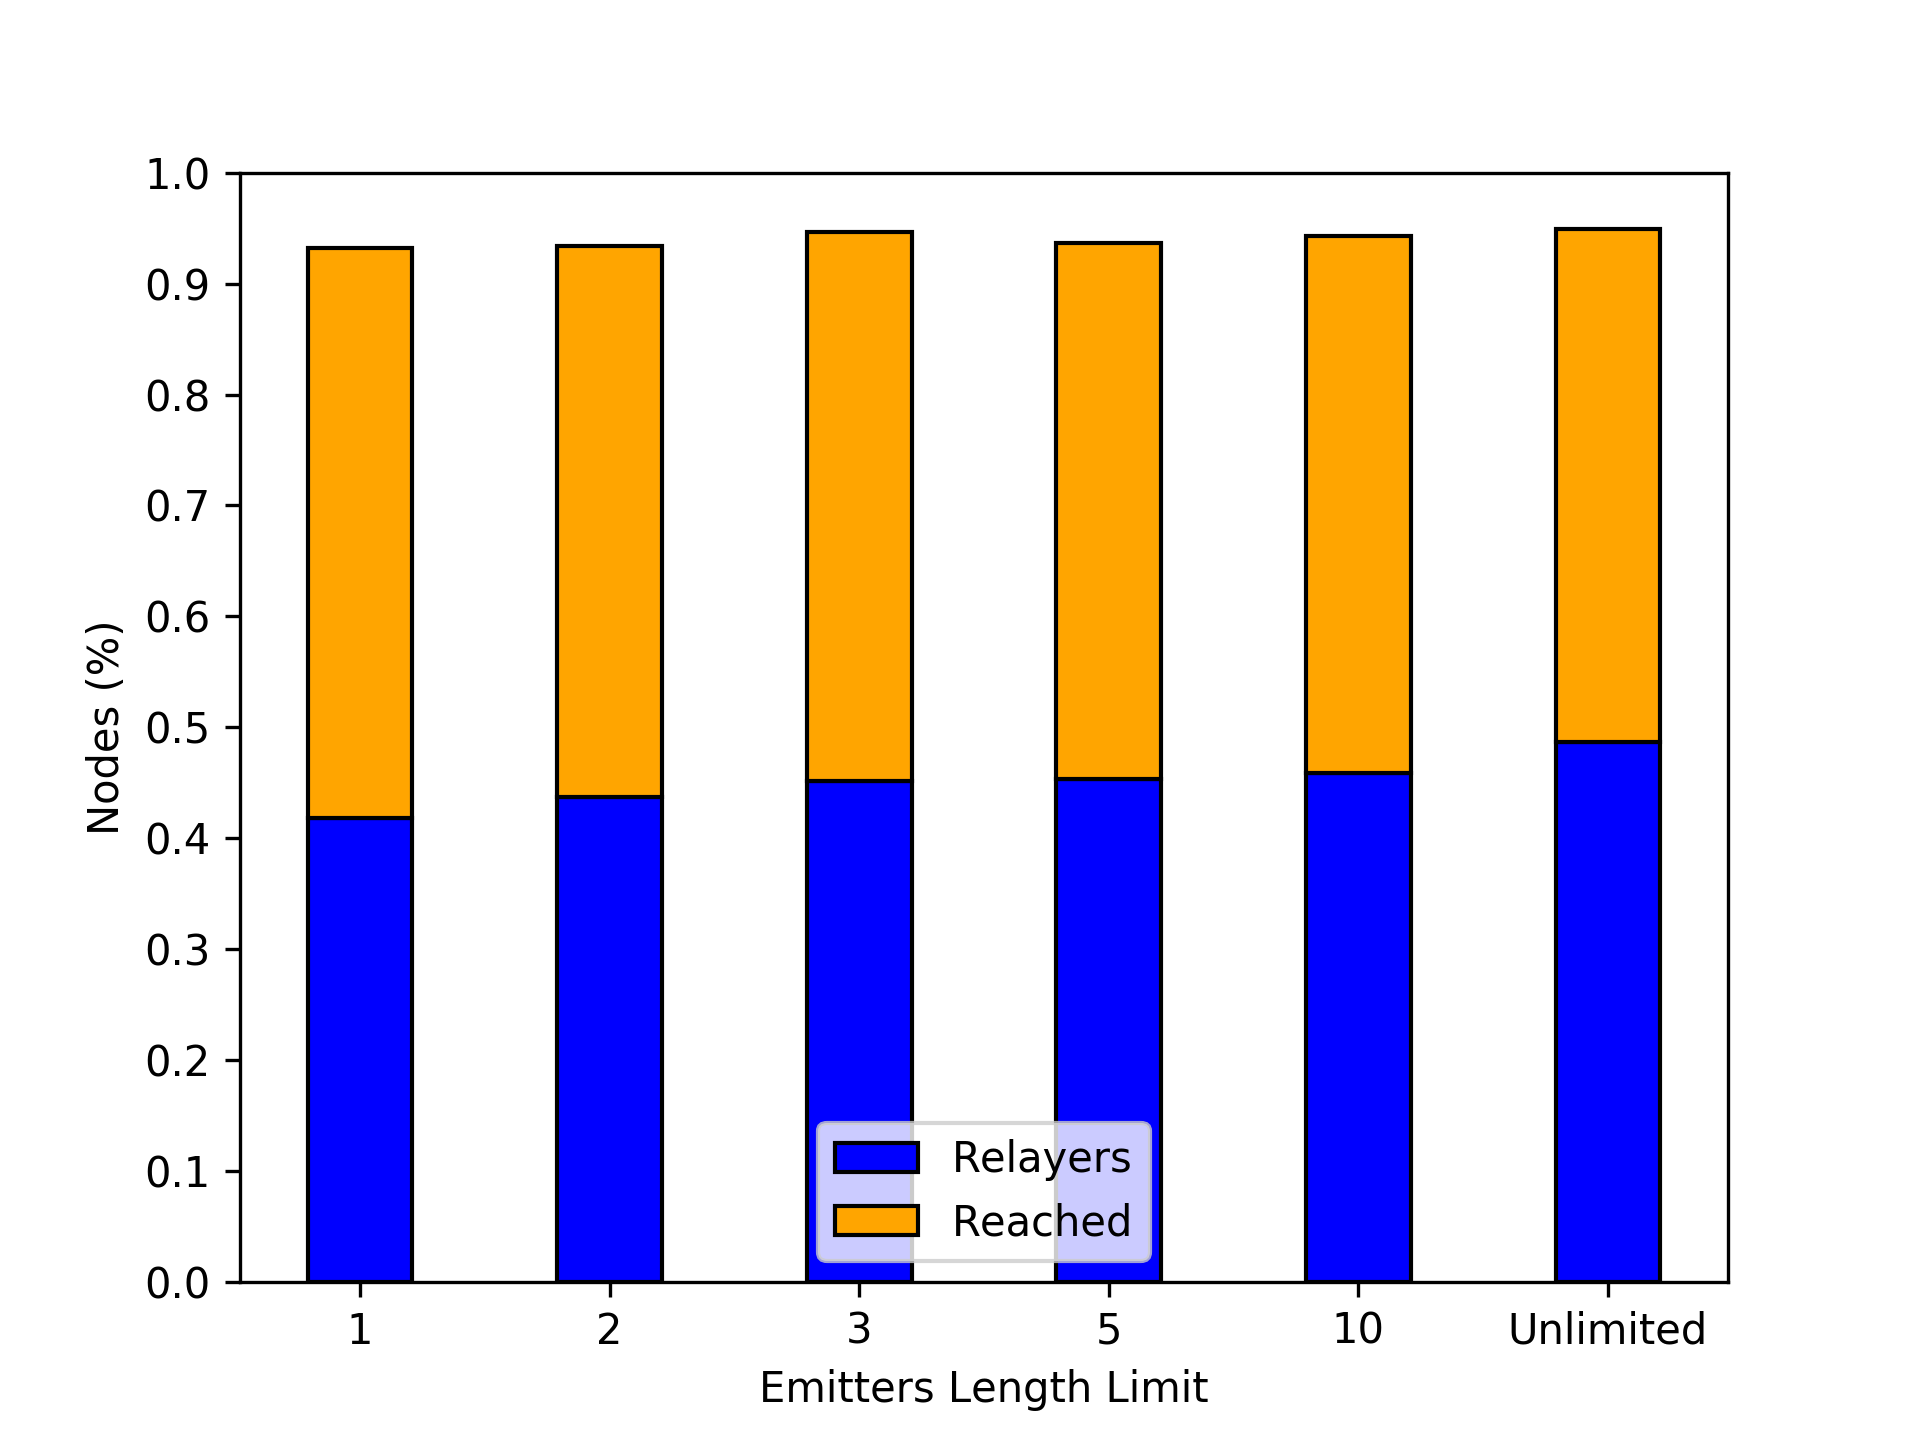
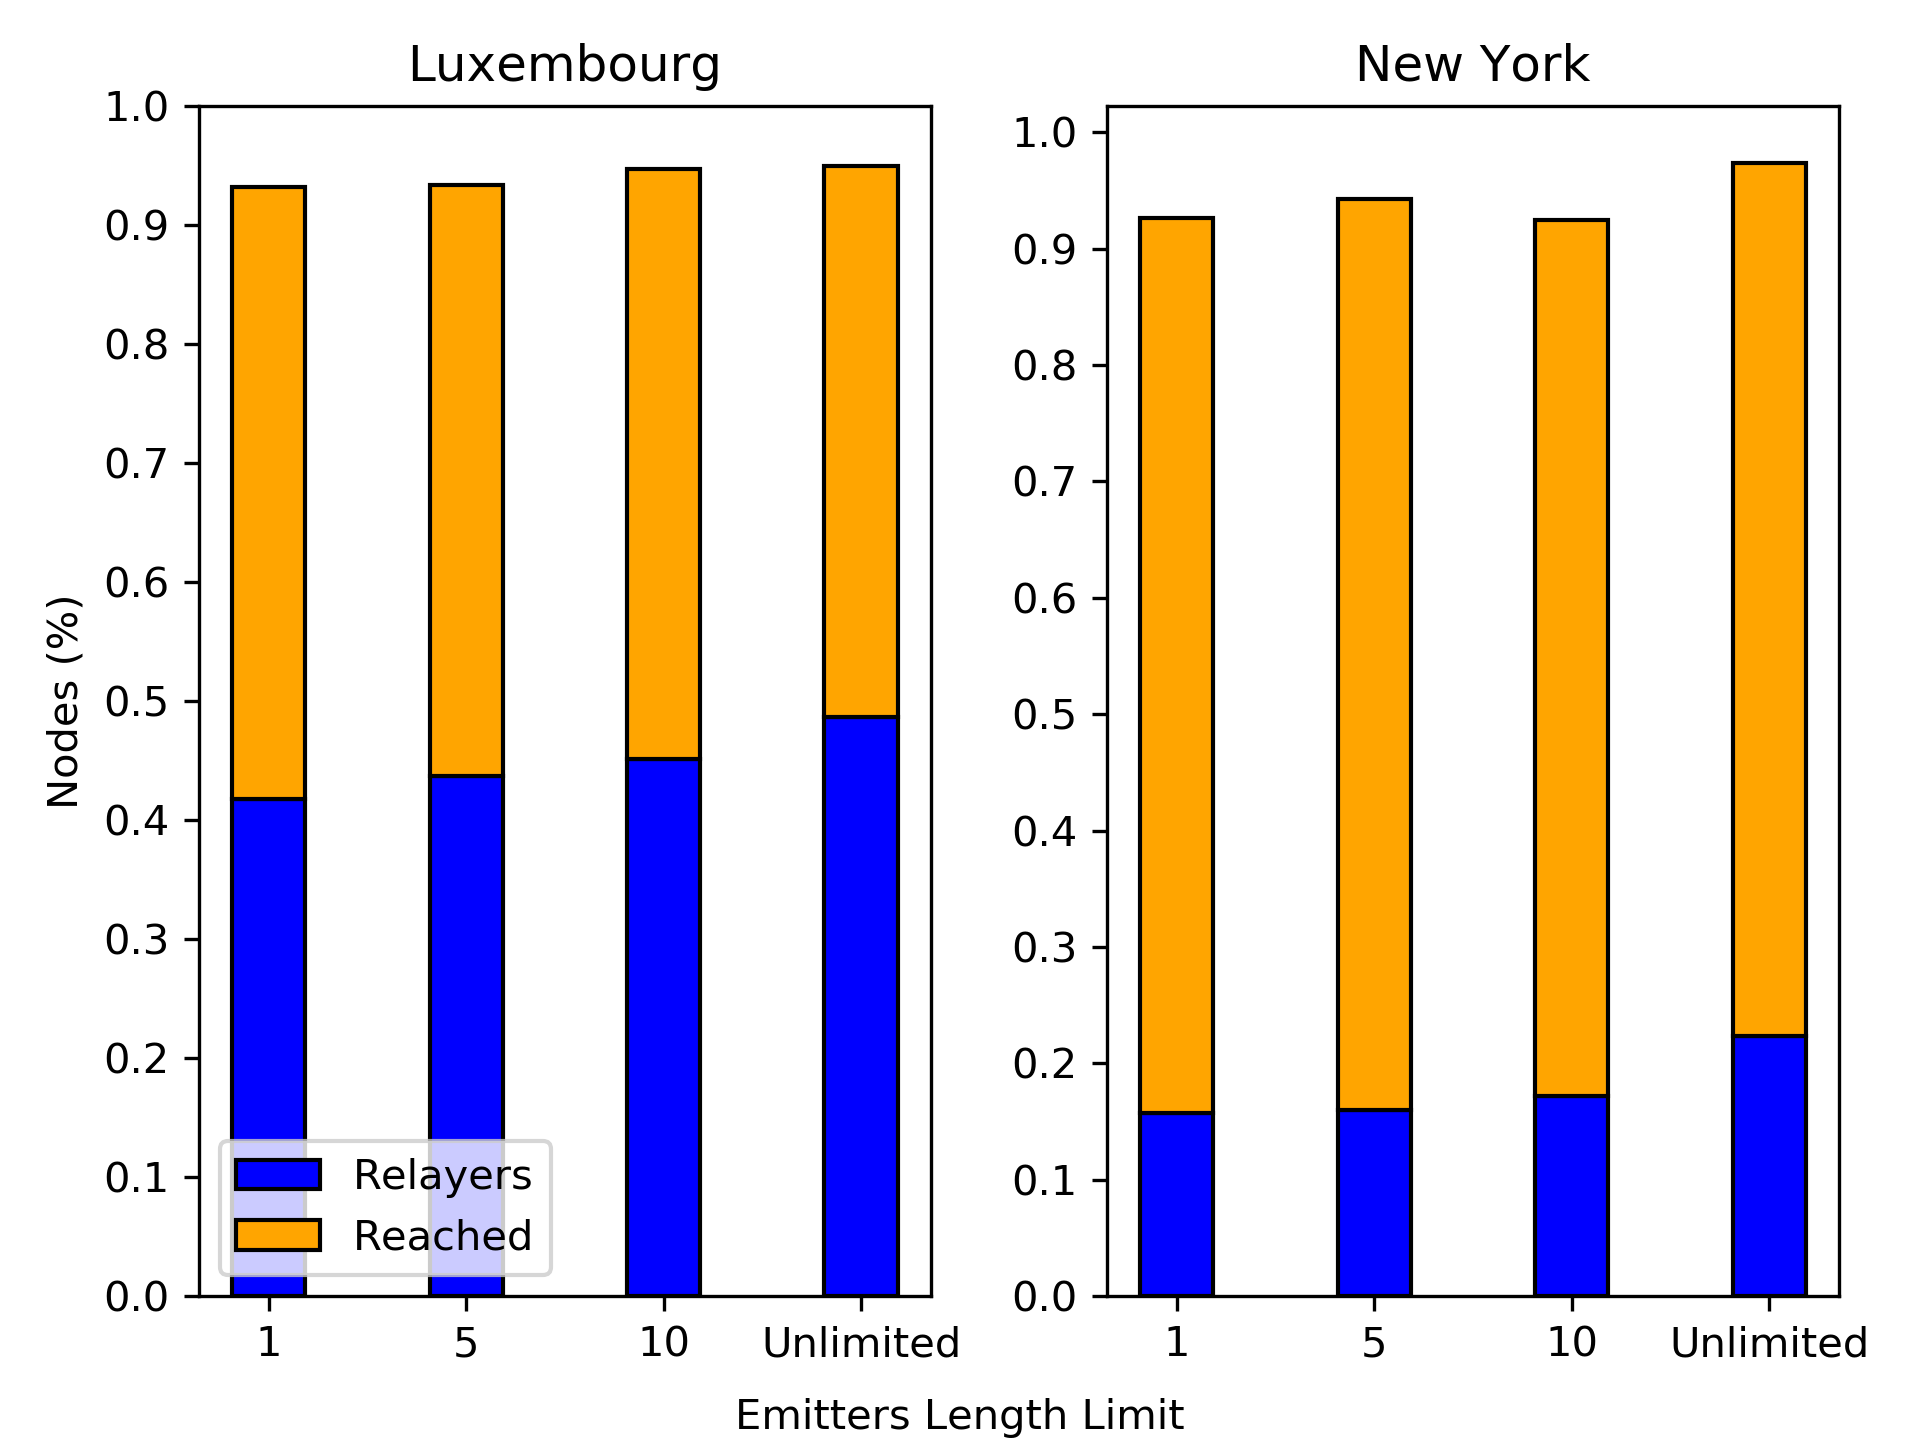
update graph emitters

diff --git a/grafici/graph-TC-emitters.py b/grafici/graph-TC-emitters.py
@@ -46,7 +46,7 @@ import numpy as np
 import matplotlib.pyplot as plt
 
 
-N = 6
+N = 4
 
 '''
 means_infected_low = (0.9128-(305.71/787), 0.9542-(143.53/220), 0.9405-(155.61/433))
@@ -54,27 +54,37 @@ means_frw_low = (355.48/790, 143.53/220, 155.61/433)
 means_infected = (0.9917-(355.48/790), 0.9463-(222.75/436), 0.9547-(118.63/600))
 means_frw = (305.71/787, 222.75/436, 118.63/600)
 '''
-cnum = 790  #cars number
 
+'''   FULL RESULTS LUXEMBURG
 x = np.asarray((100,10,5,3,2,1))
 frw = np.asarray((330.136, 345.506, 356.647, 357.763, 362.719, 384.708)) / cnum
 recv = np.asarray((0.9323, 0.934, 0.9467, 0.9365, 0.9432, 0.9494)) - frw
-#x, frw, recv = np.flip(x), np.flip(frw), np.flip(recv)
+'''
+
+cnum_lux = 790  #cars number lux
+x_lux = np.asarray((100,10,5,1))
+frw_lux = np.asarray((330.136, 345.506, 356.647, 384.708)) / cnum_lux
+recv_lux = np.asarray((0.9323, 0.934, 0.9467, 0.9494)) - frw_lux
+
+cnum_ny = 600  #cars number ny
+x_ny = np.asarray((100,10,5,1))
+frw_ny = np.asarray((94.32, 96.06, 103.15, 134.31)) / cnum_ny
+recv_ny = np.asarray((0.9266, 0.9429, 0.9244, 0.974)) - frw_ny
 
 ind = np.arange(N)    # the x locations for the groups
-width = 0.3       # the width of the bars: can also be len(x) sequence
+width = 0.37       # the width of the bars: can also be len(x) sequence
 
 fig, (ax1, ax2) = plt.subplots(nrows=1, ncols=2)
 
 gap = 0.07
 
-p1 = ax1.bar(ind, frw, width, color='b', edgecolor='k')
-p2 = ax1.bar(ind, recv, width,
-             bottom=frw, color='#ffa500', edgecolor='k')
+p1 = ax1.bar(ind, frw_lux, width, color='b', edgecolor='k')
+p2 = ax1.bar(ind, recv_lux, width,
+             bottom=frw_lux, color='#ffa500', edgecolor='k')
 
-p1 = ax2.bar(ind, frw, width, color='b', edgecolor='k')
-p2 = ax2.bar(ind, recv, width,
-             bottom=frw, color='#ffa500', edgecolor='k')
+p3 = ax2.bar(ind, frw_ny, width, color='b', edgecolor='k')
+p4 = ax2.bar(ind, recv_ny, width,
+             bottom=frw_ny, color='#ffa500', edgecolor='k')
 
 
 #p1 = ax.plot(x, frw)
@@ -101,12 +111,19 @@ plt.legend((p2[0], p4[0], p3[0]), ('Receivers high density', 'Receivers low dens
     fancybox=True, shadow=True, ncol=5)
 '''
 
-plt.ylabel('Nodes (%)')
-plt.xlabel('Emitters Length Limit')
-plt.title('')
-plt.xticks(ind, ('1', '2', '3', '5', '10', 'Unlimited'))
+#plt.ylabel('Nodes (%)')
+plt.title('New York')
+plt.xticks(ind, ('1', '5', '10', 'Unlimited'))
 plt.yticks(np.arange(0, 1.1, 0.1))
-plt.legend((p1[0], p2[0]), ('Relayers', 'Reached'), loc='lower center')
+plt.sca(ax1)
+plt.ylabel('Nodes (%)')
+plt.title('Luxembourg')
+plt.xticks(ind, ('1', '5', '10', 'Unlimited'))
+plt.yticks(np.arange(0, 1.1, 0.1))
+fig.text(0.5, 0.015, 'Emitters Length Limit', ha='center', va='center')
+ax1.legend((p1[0], p2[0]), ('Relayers', 'Reached'), loc='lower left', fancybox=True)
 
-plt.show()
-#plt.savefig('top_car/emitters.png', dpi=300)
+plt.tight_layout()
+plt.gcf().subplots_adjust(bottom=0.1)
+#plt.show()
+plt.savefig('grafici/top_car/emitters.png', dpi=300)
